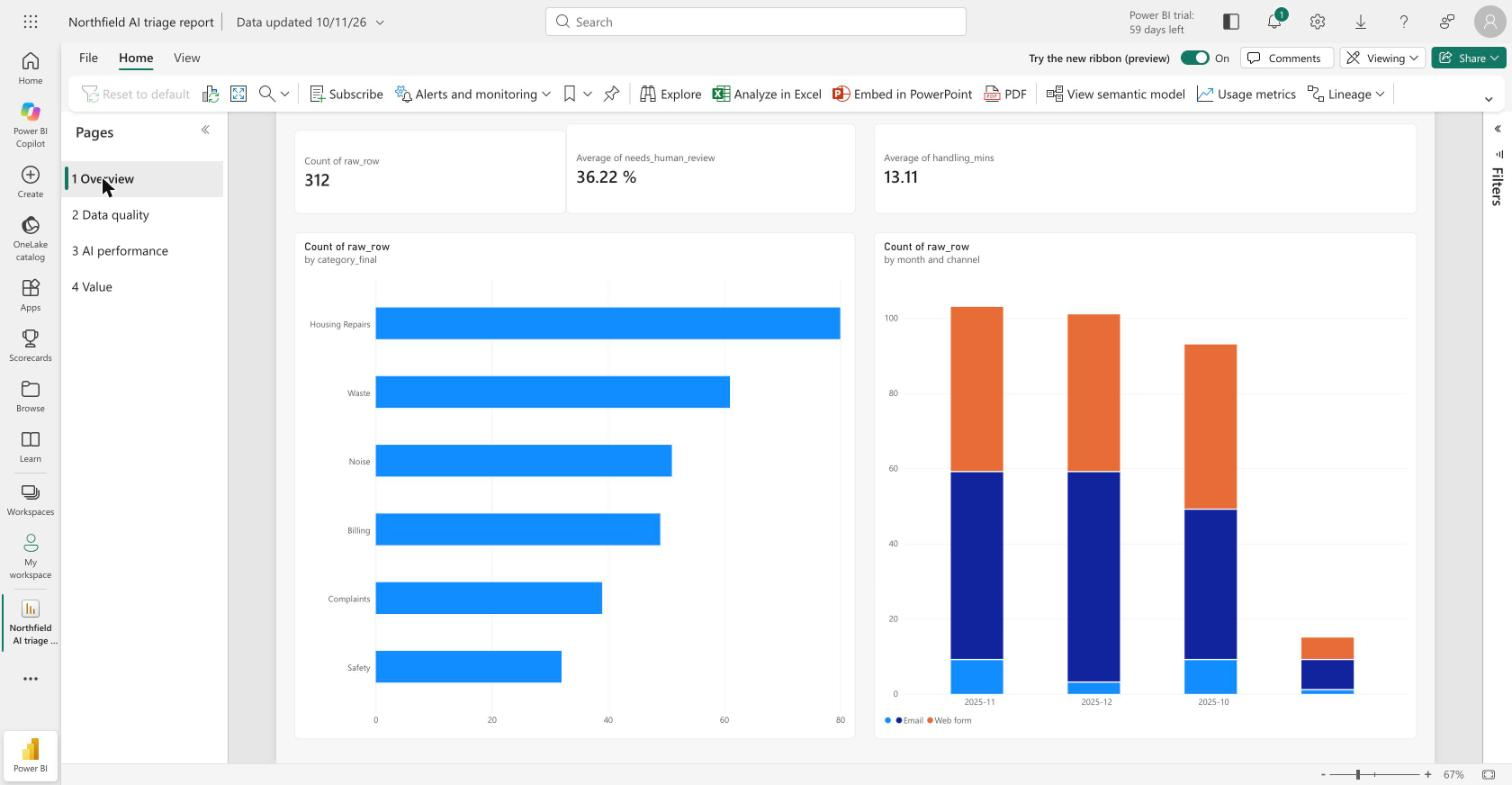
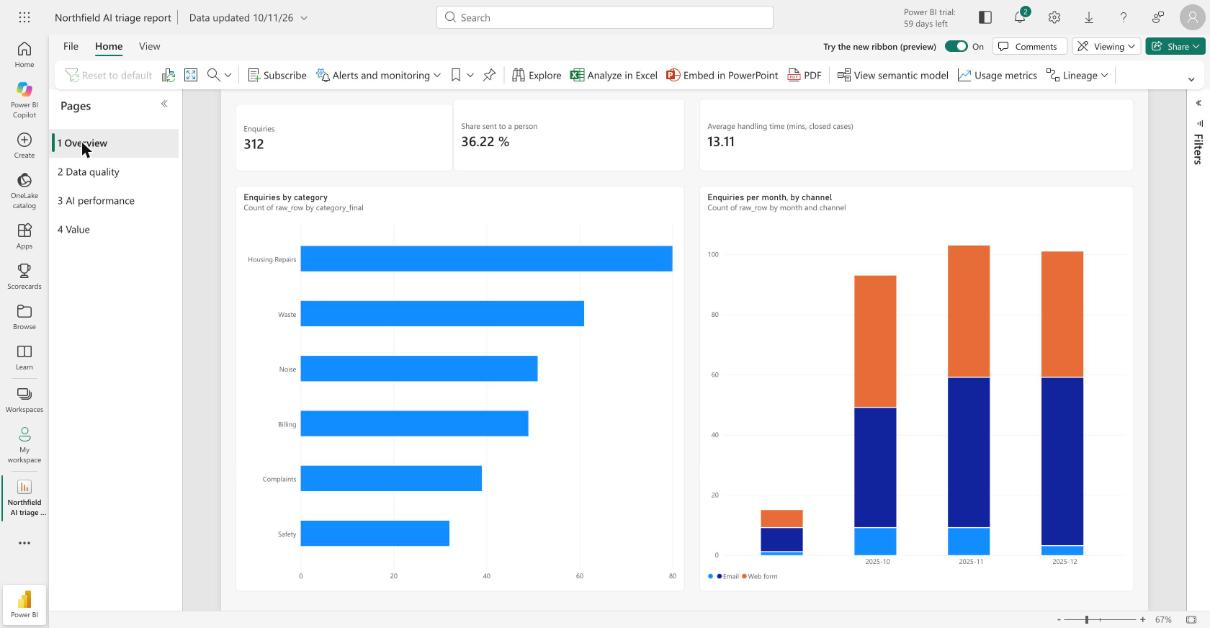
Polish Power BI report (titles, labels, month sort, percent formats) and refresh screenshots

diff --git a/README.md b/README.md
@@ -31,7 +31,7 @@ Messy legacy sheet ─► 1 Clean & score (Python) ─► 2 SQL tables (SQLite /
 | 4 | AI triage (pydantic, retry, cost guard) | **Done and tested with the real Claude API** (312 enquiries, about £0.41), plus the keyword stand-in and a chat-session run for comparison |
 | 5 | Human review loop + audit log | **Local version tested**; the n8n workflow is drafted, **not run** (no Docker or Google account here) |
 | 6 | Evaluation vs answer key, time saved | **Done** on the real API run (see Results) |
-| 7 | Power BI report | **Built in the Power BI service** (4 pages, from this repo's CSVs; real screenshots below). No `.pbix` file (Power BI Desktop is Windows-only), and the web editor can't create custom DAX measures, so it uses built-in aggregations. Default visual titles still need polish |
+| 7 | Power BI report | **Built in the Power BI service** (4 pages, from this repo's CSVs; real screenshots below). No `.pbix` file (Power BI Desktop is Windows-only), and the web editor can't create custom DAX measures, so it uses built-in aggregations. Titles, labels and month order were polished; some default subtitles remain |
 | 8 | Microsoft Fabric edition | **Prepared, not run.** Notebooks, T-SQL and a step-by-step guide are in `fabric/`. On 10 Nov 2026 I tried to start a Fabric trial for my account and Microsoft replied that a Fabric trial isn't available for it, so the notebooks have never been run |
 | 9 | Packaging | README, case study, video script and CV notes done; **video not recorded** |
 
@@ -94,7 +94,7 @@ Built on the repo's CSV files (`powerbi/data/`), loaded into Power BI from their
 | ![Overview](docs/screenshots/powerbi_1_overview.jpg) | ![Data quality](docs/screenshots/powerbi_2_data_quality.jpg) |
 | ![AI performance](docs/screenshots/powerbi_3_ai_performance.jpg) | ![Value](docs/screenshots/powerbi_4_value.jpg) |
 
-Honest notes: visual titles are Power BI defaults ("Count of raw_row"), the month axis isn't sorted, and the data is a snapshot of the CSVs (re-run `evaluate.py`, push, then refresh the model to update). Earlier Python-drawn mock-ups of the pages are in `docs/screenshots/python_preview/`.
+Honest notes: charts have clear titles and labels, but their subtitles are still Power BI's defaults (for example "Count of raw_row by category_final"); the first column in the month chart (about 15 enquiries) is rows whose date couldn't be read; the "Urgent missed" figures come from the headline table, not a dedicated card; and the data is a snapshot of the CSVs (re-run `evaluate.py`, push, then refresh the model to update). Earlier Python-drawn mock-ups of the pages are in `docs/screenshots/python_preview/`.
 
 ## Run it (no API key needed)
 

diff --git a/LEARNING_NOTES.md b/LEARNING_NOTES.md
@@ -166,3 +166,5 @@ Order from CLAUDE.md: terminal and VS Code -> Python basics -> pandas -> SQL -> 
 - **What went wrong and what I learned:** Power BI refused a local Excel upload (needs OneDrive/SharePoint); the web editor has no custom measures; moving visuals by dragging was unreliable, so I used the numeric Size and Position boxes. Microsoft also said a Fabric trial wasn't available for my account, so Fabric stays "prepared, not run".
 - **New words:** *semantic model* (the data tables behind a report); *Power Query* (the tool that loads and shapes data); *aggregation* (Count, Sum, Average of a column); *page-level filter* (a filter that applies to every visual on a page); *measure* (a reusable calculation written in DAX).
 - **New questions to answer in your own words:** (15) Why filter the AI-performance page to the 300 original rows? (16) Why can't a card show "Review rate" as a ready-made number without a measure, and what did I use instead? (17) What does it mean that the report reads data from GitHub, and what would I need to do to refresh it?
+
+- **Polish pass (same day):** gave the charts proper titles, renamed card and series labels, sorted months, and set percent formats. Gotchas: on a Mac select-all is Cmd+A (Ctrl+A moved the cursor instead and Cmd+A with no text box focused selected every visual); an accidental click on a bar cross-highlights other charts until you click it again.

diff --git a/powerbi/BUILD_GUIDE.md b/powerbi/BUILD_GUIDE.md
@@ -8,7 +8,7 @@ A four-page report, **Northfield AI triage report**, was built in the Power BI s
 2. **Pages.** Page size is 1920x1080. Visuals were positioned with Format -> General -> Properties (Size and Position boxes), which is more reliable than dragging.
 3. **Page 3 filter.** A page-level filter `row_type = original` makes the AI-performance charts count only the 300 real enquiries.
 4. **What the web editor can't do.** There is no "New measure", so the DAX measures below were **not** created; the report uses built-in aggregations (Count of `raw_row`, Average of `needs_human_review`, Average of `category_correct`, and so on). To get nicer titles, percentage cards and the measures below, open the model in **Power BI Desktop** (Windows).
-5. **Known rough edges.** Default titles ("Count of raw_row"), the month axis is not sorted, and the Overview cards could use clearer labels.
+5. **Polish done afterwards:** chart titles (Format -> General -> Title -> Text), card and series names (select the visual, double-click the field in the well, Cmd+A, type, Enter), months sorted ascending (visual ... -> Sort by -> month -> Sort ascending), percent formats (Format -> General -> Data format). **Still rough:** default subtitles, a (blank)-month column for undated rows, and no dedicated card for "urgent cases missed".
 
 ## The original plan (still the target for Power BI Desktop)
 
